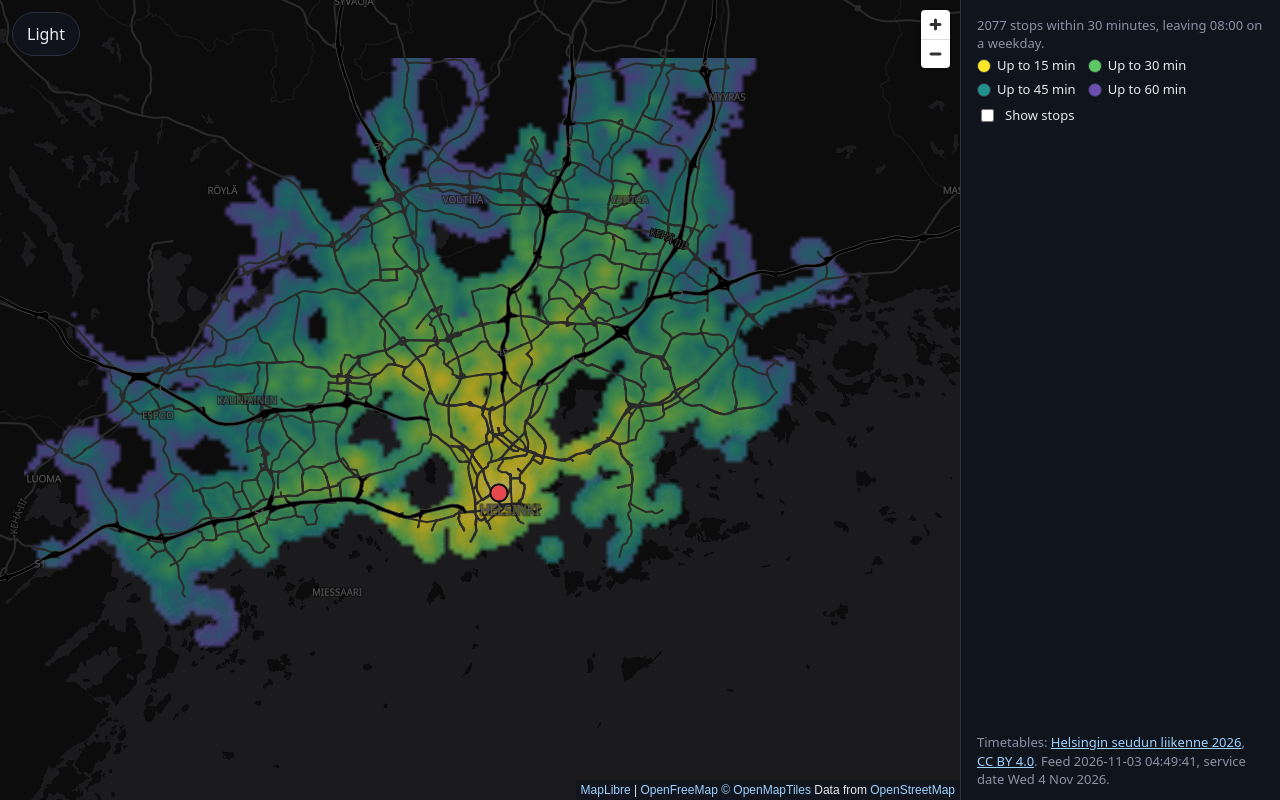
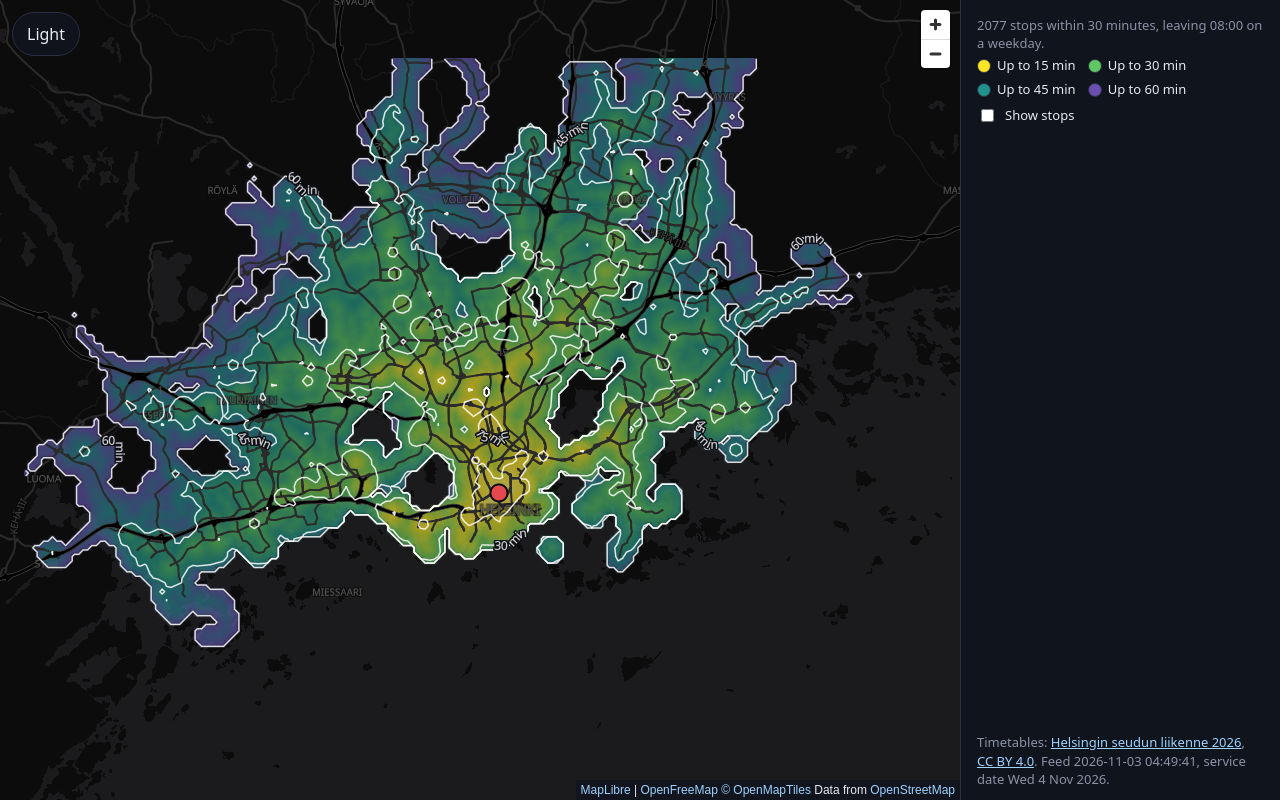
feat: outlines at 15, 30, 45 and 60 minutes (#6)

diff --git a/src/core/contour.ts b/src/core/contour.ts
@@ -1,0 +1,117 @@
+// Marching squares over the field grid. Values sit at cell centres, so a vertex lies on the line
+// between two neighbouring centres where the value crosses the threshold.
+import {cellLat, cellLon, type Grid} from './field';
+
+export type Position = [number, number];
+
+export interface Line {
+  /** Longitude and latitude pairs. A closed line repeats its first position at the end. */
+  coordinates: Position[];
+  closed: boolean;
+}
+
+/**
+ * A cell is inside when its value is at or below the threshold; Infinity (unreached) is outside.
+ * Where a finite centre meets an unreached one there is nothing to interpolate, so the vertex sits
+ * halfway between the two centres.
+ *
+ * A saddle (opposite corners inside, the others outside) is resolved by the mean of the four
+ * corners: if it is at or below the threshold the inside corners join across the cell, otherwise
+ * they stay apart. An unreached corner makes the mean Infinity, so they stay apart.
+ */
+export function contour(values: ArrayLike<number>, grid: Grid, threshold: number): Line[] {
+  const {cols, rows} = grid;
+  const at = (r: number, c: number) => values[r * cols + c] as number;
+  const inside = (v: number) => v <= threshold;
+
+  // An edge point is named by the lower-index centre it starts from and its direction.
+  const key = (horizontal: boolean, r: number, c: number) => (r * cols + c) * 2 + (horizontal ? 0 : 1);
+  const position = new Map<number, Position>();
+  const point = (horizontal: boolean, r: number, c: number): number => {
+    const id = key(horizontal, r, c);
+    if (!position.has(id)) {
+      const r2 = horizontal ? r : r + 1;
+      const c2 = horizontal ? c + 1 : c;
+      const a = at(r, c);
+      const b = at(r2, c2);
+      const t = Number.isFinite(a) && Number.isFinite(b) ? (threshold - a) / (b - a) : 0.5;
+      const lon = cellLon(grid, c) + t * (cellLon(grid, c2) - cellLon(grid, c));
+      const lat = cellLat(grid, r) + t * (cellLat(grid, r2) - cellLat(grid, r));
+      position.set(id, [lon, lat]);
+    }
+    return id;
+  };
+
+  const segments: Array<[number, number]> = [];
+  for (let r = 0; r < rows - 1; r++) {
+    for (let c = 0; c < cols - 1; c++) {
+      const tl = at(r, c);
+      const tr = at(r, c + 1);
+      const br = at(r + 1, c + 1);
+      const bl = at(r + 1, c);
+      const code = (inside(tl) ? 1 : 0) | (inside(tr) ? 2 : 0) | (inside(br) ? 4 : 0) | (inside(bl) ? 8 : 0);
+      if (code === 0 || code === 15) continue;
+      const top = () => point(true, r, c);
+      const bottom = () => point(true, r + 1, c);
+      const left = () => point(false, r, c);
+      const right = () => point(false, r, c + 1);
+      switch (code) {
+        case 1: case 14: segments.push([left(), top()]); break;
+        case 2: case 13: segments.push([top(), right()]); break;
+        case 3: case 12: segments.push([left(), right()]); break;
+        case 4: case 11: segments.push([right(), bottom()]); break;
+        case 6: case 9: segments.push([top(), bottom()]); break;
+        case 7: case 8: segments.push([left(), bottom()]); break;
+        case 5: // top-left and bottom-right inside
+          if ((tl + tr + br + bl) / 4 <= threshold) segments.push([left(), bottom()], [top(), right()]);
+          else segments.push([left(), top()], [right(), bottom()]);
+          break;
+        case 10: // top-right and bottom-left inside
+          if ((tl + tr + br + bl) / 4 <= threshold) segments.push([left(), top()], [right(), bottom()]);
+          else segments.push([top(), right()], [left(), bottom()]);
+          break;
+      }
+    }
+  }
+  return chain(segments, position);
+}
+
+/** Joins segments that share an edge point into lines, open ones first, in a fixed order. */
+function chain(segments: Array<[number, number]>, position: Map<number, Position>): Line[] {
+  const touching = new Map<number, number[]>();
+  segments.forEach(([a, b], i) => {
+    for (const p of [a, b]) touching.set(p, [...(touching.get(p) ?? []), i]);
+  });
+  const used = new Array<boolean>(segments.length).fill(false);
+
+  const walk = (startSegment: number, startPoint: number): number[] => {
+    const ids = [startPoint];
+    let seg = startSegment;
+    let from = startPoint;
+    for (;;) {
+      used[seg] = true;
+      const [a, b] = segments[seg] as [number, number];
+      const to = a === from ? b : a;
+      ids.push(to);
+      const next = (touching.get(to) as number[]).find((s) => !used[s]);
+      if (next === undefined) return ids;
+      seg = next;
+      from = to;
+    }
+  };
+  const toLine = (ids: number[]): Line => ({
+    coordinates: ids.map((id) => position.get(id) as Position),
+    closed: ids.length > 2 && ids[0] === ids[ids.length - 1],
+  });
+
+  const lines: Line[] = [];
+  const ends = [...touching.keys()].filter((p) => (touching.get(p) as number[]).length === 1).sort((a, b) => a - b);
+  for (const p of ends) {
+    const s = (touching.get(p) as number[])[0] as number;
+    if (!used[s]) lines.push(toLine(walk(s, p)));
+  }
+  for (let s = 0; s < segments.length; s++) {
+    if (!used[s]) lines.push(toLine(walk(s, (segments[s] as [number, number])[0])));
+  }
+  return lines;
+}

diff --git a/src/core/contour.test.ts b/src/core/contour.test.ts
@@ -1,0 +1,75 @@
+import {expect, test} from 'bun:test';
+import {contour, type Line} from './contour';
+import {contoursGeoJson} from './contour-geojson';
+import type {Grid} from './field';
+
+// Unit cells: column c has its centre at longitude c + 0.5 and row r at latitude rows - r - 0.5.
+const unit = (cols: number, rows: number): Grid => ({west: 0, south: 0, east: cols, north: rows, cols, rows, stepLon: 1, stepLat: 1});
+
+/** Rounded, direction-free and ordered, so a test names the expected geometry and not the walk order. */
+function shape(lines: Line[]): string[] {
+  const r = (n: number) => Math.round(n * 1e6) / 1e6;
+  return lines
+    .map((l) => {
+      const pts = (l.closed ? l.coordinates.slice(0, -1) : l.coordinates).map(([x, y]) => `${r(x)},${r(y)}`);
+      return (l.closed ? 'ring ' : 'line ') + (l.closed ? [...pts].sort() : pts[0]! < pts[pts.length - 1]! ? pts : [...pts].reverse()).join(' ');
+    })
+    .sort();
+}
+
+test('a single peak gives one closed ring through the edge points where the value crosses', () => {
+  // 5x5; the middle cell is 0, its four neighbours 10, the rest 100. Threshold 5 crosses halfway
+  // along each line from the middle centre (2.5, 2.5) to a neighbour.
+  const v = new Array<number>(25).fill(100);
+  v[12] = 0;
+  for (const i of [7, 11, 13, 17]) v[i] = 10;
+  const lines = contour(v, unit(5, 5), 5);
+  expect(lines).toHaveLength(1);
+  expect(lines[0]!.closed).toBe(true);
+  expect(lines[0]!.coordinates[0]).toEqual(lines[0]!.coordinates[lines[0]!.coordinates.length - 1]!);
+  expect(shape(lines)).toEqual(['ring 2,2.5 2.5,2 2.5,3 3,2.5']);
+});
+
+test('a saddle joins the low corners when the mean is under the threshold and splits them when it is over', () => {
+  // 2x2: top-left and bottom-right are 0, the others 10, mean 5. Centres: (0.5, 1.5) (1.5, 1.5) top, (0.5, 0.5) (1.5, 0.5) bottom.
+  const v = [0, 10, 10, 0];
+  // Threshold 6: mean 5 is under it, so the two low corners are one band, cut off from the high corners.
+  expect(shape(contour(v, unit(2, 2), 6))).toEqual(['line 0.5,0.9 0.9,0.5', 'line 1.1,1.5 1.5,1.1']);
+  // Threshold 4: mean 5 is over it, so each low corner is cut off by itself.
+  expect(shape(contour(v, unit(2, 2), 4))).toEqual(['line 0.5,1.1 0.9,1.5', 'line 1.1,0.5 1.5,0.9']);
+});
+
+test('the other saddle orientation is resolved the same way', () => {
+  const v = [10, 0, 0, 10];
+  // Low corners top-right and bottom-left. Threshold 6 joins them; threshold 4 keeps them apart.
+  expect(shape(contour(v, unit(2, 2), 6))).toEqual(['line 0.5,1.1 0.9,1.5', 'line 1.1,0.5 1.5,0.9']);
+  expect(shape(contour(v, unit(2, 2), 4))).toEqual(['line 0.5,0.9 0.9,0.5', 'line 1.1,1.5 1.5,1.1']);
+});
+
+test('a grid wholly below or wholly above the threshold has no line', () => {
+  expect(contour(new Array(16).fill(0), unit(4, 4), 5)).toEqual([]);
+  expect(contour(new Array(16).fill(50), unit(4, 4), 5)).toEqual([]);
+  expect(contour(new Array(16).fill(Infinity), unit(4, 4), 5)).toEqual([]);
+});
+
+test('a line that meets the edge of the grid stays open', () => {
+  // Left column 0, right column 10, threshold 5: a vertical line halfway between the columns.
+  expect(shape(contour([0, 10, 0, 10], unit(2, 2), 5))).toEqual(['line 1,0.5 1,1.5']);
+});
+
+test('where a reached cell meets an unreached one the vertex sits halfway', () => {
+  expect(shape(contour([0, Infinity, Infinity, Infinity], unit(2, 2), 5))).toEqual(['line 0.5,1 1,1.5']);
+});
+
+test('the same input gives the same lines, and a value equal to the threshold counts as inside', () => {
+  const v = [5, 10, 10, 10];
+  expect(contour(v, unit(2, 2), 5)).toEqual(contour(v, unit(2, 2), 5));
+  expect(contour(v, unit(2, 2), 5)).toHaveLength(1);
+});
+
+test('GeoJSON carries one feature per line with its minutes', () => {
+  const v = [0, 10 * 60, 0, 10 * 60];
+  const fc = contoursGeoJson(v, unit(2, 2), [5, 15]);
+  expect(fc.features.map((f) => f.properties.minutes)).toEqual([5]); // 15 minutes is above every value, so it has no line
+  expect(fc.features[0]!.geometry.coordinates).toHaveLength(2);
+});

diff --git a/src/ui/contour-layer.ts b/src/ui/contour-layer.ts
@@ -1,0 +1,62 @@
+import type * as maplibregl from 'maplibre-gl';
+import {contoursGeoJson, type ContourFeatureCollection} from '../core/contour-geojson';
+import type {Grid} from '../core/field';
+import {BAND_MINUTES} from '../core/reach';
+import {contourPaint, type Theme} from '../core/theme';
+
+const SOURCE = 'contours';
+const LINES = 'contour-lines';
+const LABELS = 'contour-labels';
+const EMPTY: ContourFeatureCollection = {type: 'FeatureCollection', features: []};
+
+/** Outlines of the four time bands as GeoJSON lines above the field, each labelled with its minutes. */
+export class ContourLayer {
+  private data: ContourFeatureCollection = EMPTY;
+
+  constructor(
+    private readonly map: maplibregl.Map,
+    private readonly grid: Grid,
+  ) {}
+
+  /** Sets the field to outline, or clears the outlines with null. */
+  set(field: Float32Array | null): void {
+    this.data = field ? contoursGeoJson(field, this.grid, BAND_MINUTES) : EMPTY;
+  }
+
+  /** Draws the outlines for a theme, adding the source and layers when the style lacks them. */
+  render(theme: Theme): void {
+    const paint = contourPaint(theme);
+    const source = this.map.getSource(SOURCE) as maplibregl.GeoJSONSource | undefined;
+    if (source) {
+      source.setData(this.data as never);
+      this.map.setPaintProperty(LINES, 'line-color', paint.line);
+      this.map.setPaintProperty(LABELS, 'text-color', paint.line);
+      this.map.setPaintProperty(LABELS, 'text-halo-color', paint.halo);
+      return;
+    }
+    this.map.addSource(SOURCE, {type: 'geojson', data: this.data as never});
+    this.map.addLayer({
+      id: LINES,
+      type: 'line',
+      source: SOURCE,
+      layout: {'line-join': 'round', 'line-cap': 'round'},
+      paint: {'line-color': paint.line, 'line-width': 1.5, 'line-opacity': 0.85},
+    });
+    this.map.addLayer({
+      id: LABELS,
+      type: 'symbol',
+      source: SOURCE,
+      layout: {
+        'symbol-placement': 'line',
+        'symbol-spacing': 320,
+        'text-field': ['concat', ['to-string', ['get', 'minutes']], ' min'],
+        'text-font': ['Noto Sans Regular'],
+        'text-size': 12,
+        'text-keep-upright': true,
+        'text-max-angle': 180,
+        'text-padding': 4,
+      },
+      paint: {'text-color': paint.line, 'text-halo-color': paint.halo, 'text-halo-width': 2},
+    });
+  }
+}

diff --git a/src/ui/main.ts b/src/ui/main.ts
@@ -7,6 +7,7 @@ import {validateManifest} from '../core/manifest';
 import {stopsGeoJson, type StopFeatureCollection} from '../core/stops-geojson';
 import {bandColours, bandExpression, parseTheme, resolveTheme, stopPaint, styleFor, type Theme} from '../core/theme';
 import {decode, type Timetable} from '../core/timetable';
+import {ContourLayer} from './contour-layer';
 import {FieldLayer} from './field-layer';
 
 const STORAGE_KEY = 'reach-map-theme';
@@ -44,6 +45,7 @@ let latest = 0;
 
 const grid = makeGrid(REGION, CELL_METRES);
 const field = new FieldLayer(map, grid);
+const outlines = new ContourLayer(map, grid);
 const stopsToggle = document.getElementById('stops-toggle') as HTMLInputElement;
 const stopsRow = document.getElementById('stops-row') as HTMLElement;
 
@@ -105,6 +107,7 @@ function drawStops(): void {
 // A new base style drops our sources and layers, so draw them again once it has loaded.
 map.on('style.load', () => {
   field.render(theme);
+  outlines.render(theme);
   drawStops();
 });
 
@@ -187,17 +190,20 @@ map.on('click', (e) => {
       origin = null;
       stops = stopsGeoJson(tt);
       field.set(null);
+      outlines.set(null);
       status.textContent = 'No stop is within walking range of that point. Click closer to a stop.';
       status.dataset.state = 'empty';
     } else {
       origin = [lng, lat];
       stops = stopsGeoJson(tt, bandsOf(result.arrival, DEFAULT_DEPARTURE));
       field.set(values);
+      outlines.set(values);
       const n = reachableWithin(result.arrival, DEFAULT_DEPARTURE, 30);
       status.textContent = `${n} ${n === 1 ? 'stop' : 'stops'} within 30 minutes, leaving 08:00 on a weekday.`;
       status.dataset.state = 'reach';
     }
     field.render(theme);
+    outlines.render(theme);
     drawStops();
     showLegend();
   }, 0);

diff --git a/src/core/contour-geojson.ts b/src/core/contour-geojson.ts
@@ -1,0 +1,22 @@
+import {contour} from './contour';
+import type {Grid} from './field';
+
+export interface ContourFeatureCollection {
+  type: 'FeatureCollection';
+  features: Array<{
+    type: 'Feature';
+    properties: {minutes: number};
+    geometry: {type: 'LineString'; coordinates: Array<[number, number]>};
+  }>;
+}
+
+/** One LineString per contour line of each threshold, in minutes, carrying its minutes for labels and styling. */
+export function contoursGeoJson(field: ArrayLike<number>, grid: Grid, minutes: readonly number[]): ContourFeatureCollection {
+  const features: ContourFeatureCollection['features'] = [];
+  for (const m of minutes) {
+    for (const line of contour(field, grid, m * 60)) {
+      features.push({type: 'Feature', properties: {minutes: m}, geometry: {type: 'LineString', coordinates: line.coordinates}});
+    }
+  }
+  return {type: 'FeatureCollection', features};
+}

diff --git a/src/core/theme.test.ts b/src/core/theme.test.ts
@@ -1,5 +1,5 @@
 import {expect, test} from 'bun:test';
-import {bandColours, bandExpression, parseTheme, resolveTheme, styleFor, stopPaint} from './theme';
+import {bandColours, bandExpression, contourPaint, parseTheme, resolveTheme, styleFor, stopPaint} from './theme';
 
 test.each([
   ['light', 'https://tiles.openfreemap.org/styles/positron'],
@@ -36,4 +36,9 @@ test('the band expression colours banded stops and leaves unbanded ones plain', 
 test('every theme has one colour per band', () => {
   expect(bandColours('dark').bands.length).toBe(4);
   expect(bandColours('light').bands.length).toBe(4);
+});
+
+test('outline colour and halo differ in each theme so labels read on both base maps', () => {
+  for (const t of ['light', 'dark'] as const) expect(contourPaint(t).line).not.toBe(contourPaint(t).halo);
+  expect(contourPaint('light').line).not.toBe(contourPaint('dark').line);
 });

diff --git a/src/core/theme.ts b/src/core/theme.ts
@@ -37,3 +37,8 @@ export function bandExpression(theme: Theme, plain: string): unknown[] {
   match.push(beyond);
   return ['case', ['has', 'band'], match, plain];
 }
+
+/** Colour of the outlines and their minute labels, and the halo that keeps them readable on the field and the base map. */
+export function contourPaint(theme: Theme): {line: string; halo: string} {
+  return theme === 'dark' ? {line: '#ffffff', halo: '#0c0e14'} : {line: '#1b1f2a', halo: '#ffffff'};
+}

diff --git a/docs/features.md b/docs/features.md
@@ -31,7 +31,7 @@ The result is drawn as a smooth colour field over the region rather than as dots
 
 Colour is not the only carrier of the time meaning: the legend lists the four steps by name. The stop dots are hidden once a field is shown; a "Show stops" toggle in the panel brings them back, coloured by band. While a new field is computed the previous one stays and the status line says so. Clicking again moves the origin and repaints.
 
-Near the city centre and in a suburb:
+Near the city centre and in a suburb, with the outlines:
 
 | | Light | Dark |
 |---|---|---|
@@ -39,3 +39,7 @@ Near the city centre and in a suburb:
 | Desktop, centre | ![Desktop, centre, light](screenshots/reach-centre-desktop-light.png) | ![Desktop, centre, dark](screenshots/reach-centre-desktop-dark.png) |
 | Phone, suburb | ![Phone, suburb, light](screenshots/reach-suburb-phone-light.png) | ![Phone, suburb, dark](screenshots/reach-suburb-phone-dark.png) |
 | Desktop, suburb | ![Desktop, suburb, light](screenshots/reach-suburb-desktop-light.png) | ![Desktop, suburb, dark](screenshots/reach-suburb-desktop-dark.png) |
+
+## Outlines
+
+Over the field, a line marks where the travel time crosses 15, 30, 45 and 60 minutes, each labelled with its minutes along the line. `src/core/contour.ts` runs marching squares over the field grid: a vertex lies on the line between two neighbouring cell centres where the value crosses the threshold, interpolated linearly. A cell at or below the threshold is inside, an unreached cell is outside, and where a reached cell meets an unreached one the vertex sits halfway. A saddle is resolved by the mean of the four corners, so the same grid always gives the same lines. Lines that run into the edge of the grid stay open; a threshold that nothing crosses draws nothing. The lines are a GeoJSON layer drawn in a colour and halo chosen per theme.
